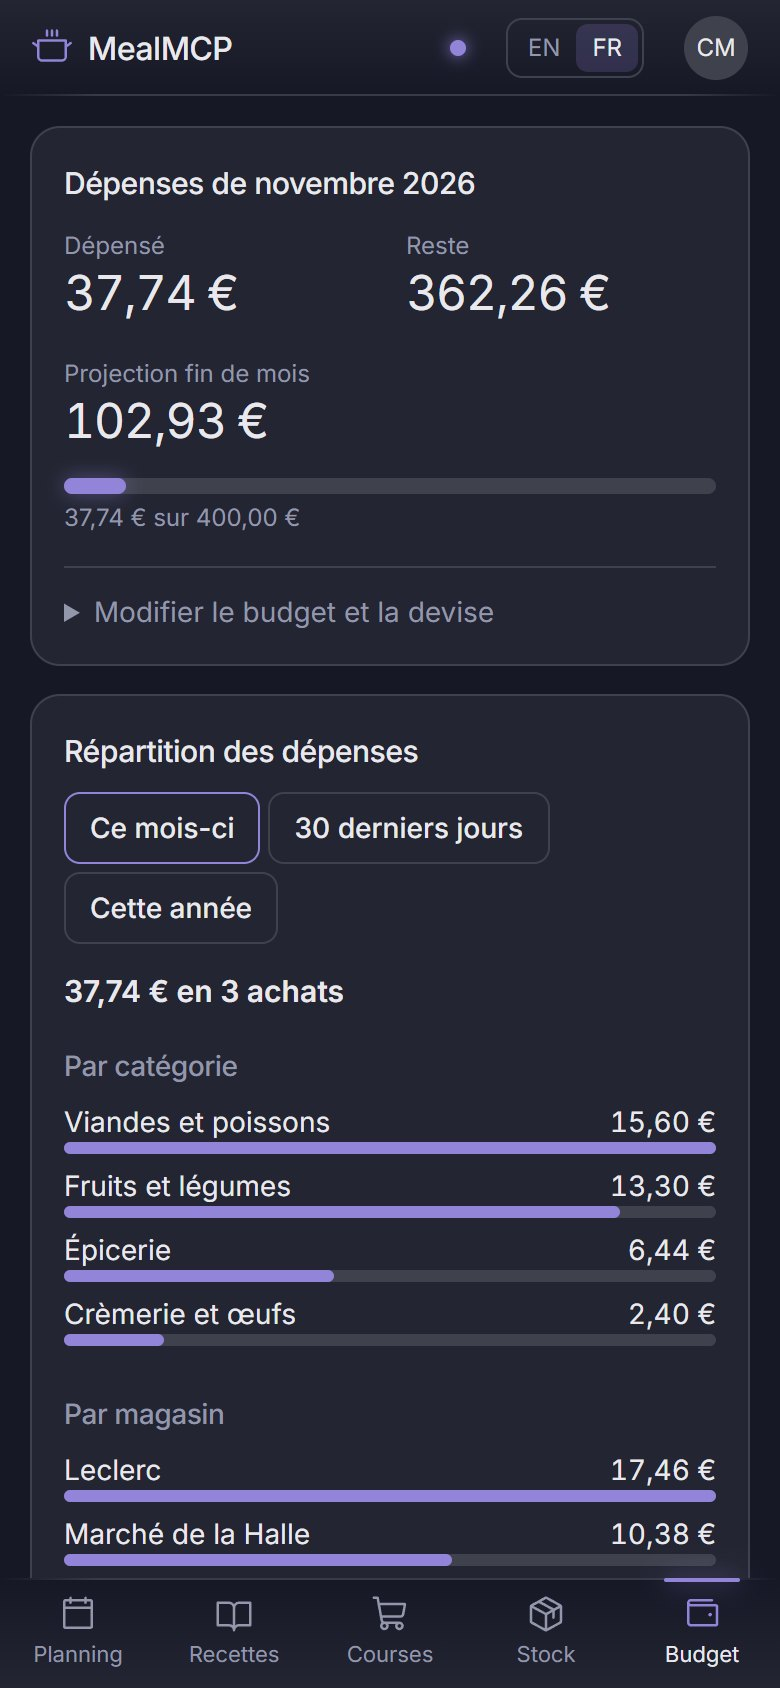
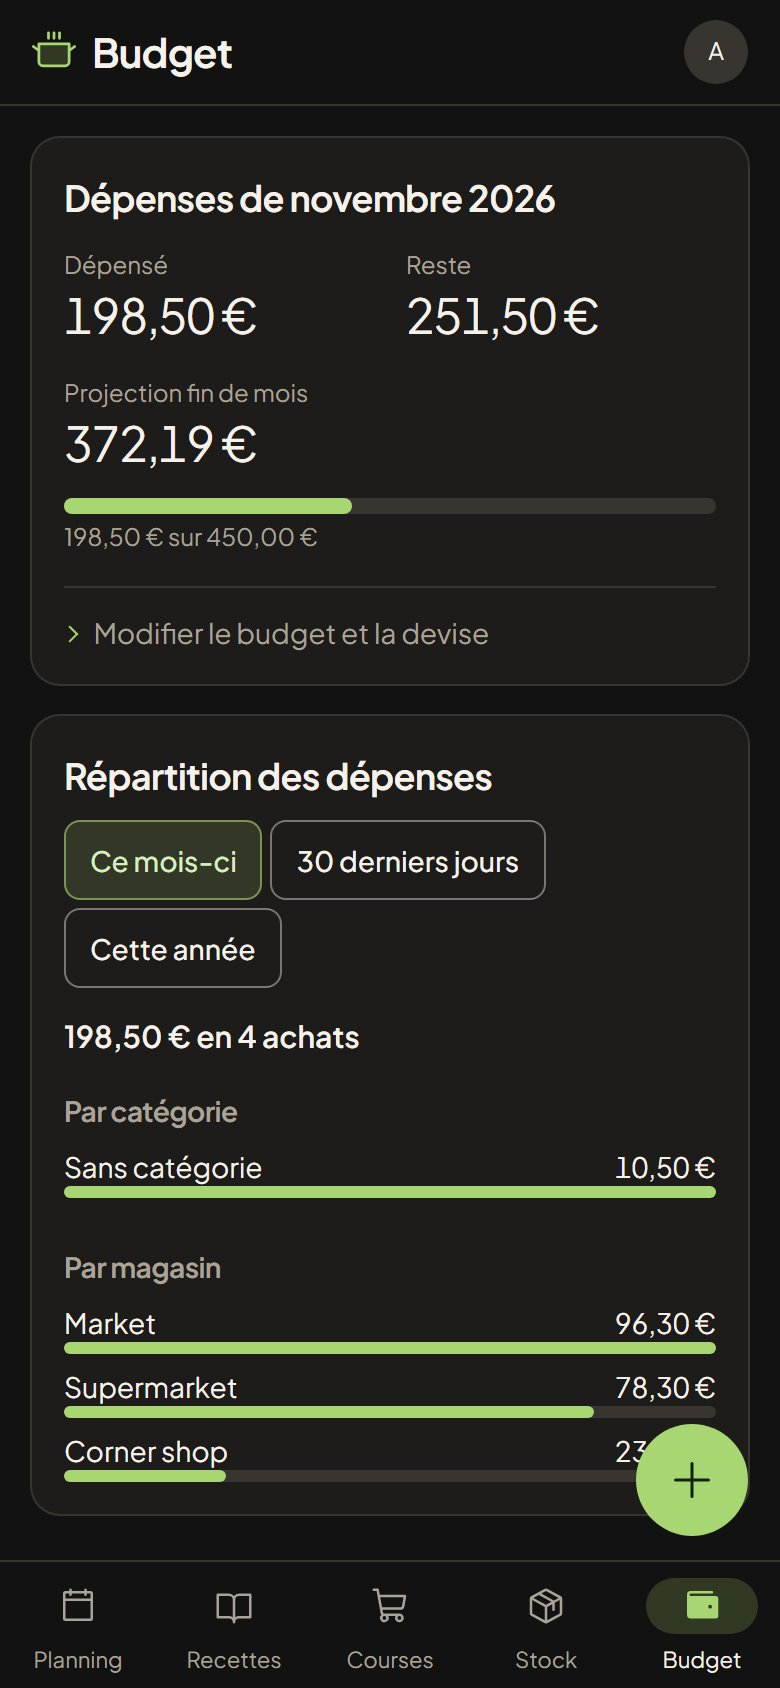
Refresh README, site and screenshots for partial freezing and price follow-up
Copy mentions freezing part of a pack and the pricey flag on shopping lines.
Desktop and phone screenshots (stock, shopping, budget, planning, recipes; en and fr)
retaken on a demo household so they show prices paid, trends and the pricey badge.

diff --git a/docs/fr/index.html b/docs/fr/index.html
@@ -52,9 +52,9 @@
   <div class="grid">
       <div class="card"><div class="ico" aria-hidden="true">📅</div><h3>La semaine planifiée en quelques minutes</h3><p>Posez une recette ou une simple note sur chaque jour. Les créneaux vides ressortent : plus de « on verra ».</p></div>
       <div class="card"><div class="ico" aria-hidden="true">🛒</div><h3>Des courses qui se préparent seules</h3><p>Un clic transforme les repas de la semaine en liste : ce qu’il faut, moins ce qu’il y a déjà. Triez par rayon et cochez en faisant les courses.</p></div>
-      <div class="card"><div class="ico" aria-hidden="true">🧊</div><h3>Savoir ce qu’il y a dans le frigo</h3><p>Voyez ce qui expire en premier, distinguez DLC et DDM, congelez et décongelez avec la bonne horloge, soyez alerté pour les pots ouverts et cuisinez ce que vous avez avant d’en racheter.</p></div>
+      <div class="card"><div class="ico" aria-hidden="true">🧊</div><h3>Savoir ce qu’il y a dans le frigo</h3><p>Voyez ce qui expire en premier, distinguez DLC et DDM, congelez et décongelez (même une partie d’un paquet) avec la bonne horloge, soyez alerté pour les pots ouverts et cuisinez ce que vous avez avant d’en racheter.</p></div>
       <div class="card"><div class="ico" aria-hidden="true">📖</div><h3>Des recettes adaptées à votre cuisine</h3><p>Notez et mettez en favori, voyez ce que vous pouvez cuisiner ce soir, et soyez prévenu si une recette demande un appareil que vous n’avez pas.</p></div>
-      <div class="card"><div class="ico" aria-hidden="true">💶</div><h3>Un budget courses maîtrisé</h3><p>Enregistrez vos tickets, fixez un budget mensuel et voyez où vous allez finir avant la fin du mois. Chaque ticket construit un historique des prix par produit, avec la tendance et le magasin le moins cher. Dans la devise de votre choix.</p></div>
+      <div class="card"><div class="ico" aria-hidden="true">💶</div><h3>Un budget courses maîtrisé</h3><p>Enregistrez vos tickets, fixez un budget mensuel et voyez où vous allez finir avant la fin du mois. Chaque ticket construit un historique des prix par produit, avec la tendance et le magasin le moins cher, et un article cher de votre liste est signalé. Dans la devise de votre choix.</p></div>
       <div class="card"><div class="ico" aria-hidden="true">🍎</div><h3>Calories et macros, seulement si vous voulez</h3><p>Activez la nutrition pour voir calories, protéines, glucides et lipides de chaque recette. Les valeurs viennent d’Open Food Facts ou de vos chiffres, et l’appli signale l’ingrédient manquant. Désactivé par défaut.</p></div>
       <div class="card"><div class="ico" aria-hidden="true">🥕</div><h3>Manger de saison</h3><p>Un calendrier des fruits et légumes de votre pays. Les articles hors saison de la liste viennent avec des alternatives de saison.</p></div>
       <div class="card"><div class="ico" aria-hidden="true">🥗</div><h3>Régimes et allergies pris en compte</h3><p>Végétarien, sans gluten, les 14 allergènes de l’UE, ce que quelqu’un n’aime pas : les recettes qui ne conviennent pas sont signalées et jamais suggérées.</p></div>

diff --git a/docs/index.html b/docs/index.html
@@ -52,9 +52,9 @@
   <div class="grid">
       <div class="card"><div class="ico" aria-hidden="true">📅</div><h3>Plan the week in minutes</h3><p>Drop a recipe or a quick note on each day. Empty slots stand out, so nothing is left to “we will see”.</p></div>
       <div class="card"><div class="ico" aria-hidden="true">🛒</div><h3>Shopping lists that write themselves</h3><p>One tap turns the week’s meals into a list: what you need, minus what is already at home. Sort it by aisle and tick as you walk the shop.</p></div>
-      <div class="card"><div class="ico" aria-hidden="true">🧊</div><h3>Know what is in the fridge</h3><p>See what expires first, tell use-by from best-before, freeze and thaw with the right clock, get an alert on opened jars, and cook what you already own before buying more.</p></div>
+      <div class="card"><div class="ico" aria-hidden="true">🧊</div><h3>Know what is in the fridge</h3><p>See what expires first, tell use-by from best-before, freeze and thaw (even part of a pack) with the right clock, get an alert on opened jars, and cook what you already own before buying more.</p></div>
       <div class="card"><div class="ico" aria-hidden="true">📖</div><h3>Recipes that fit your kitchen</h3><p>Rate and favorite recipes, see which ones you can make tonight, and get a warning when one needs an appliance you do not have.</p></div>
-      <div class="card"><div class="ico" aria-hidden="true">💶</div><h3>Grocery budget under control</h3><p>Log receipts, set a monthly budget and see where you will land before the month ends. Every receipt builds a price history per product, with the trend and the cheapest shop. In any currency.</p></div>
+      <div class="card"><div class="ico" aria-hidden="true">💶</div><h3>Grocery budget under control</h3><p>Log receipts, set a monthly budget and see where you will land before the month ends. Every receipt builds a price history per product, with the trend and the cheapest shop, and a pricey item on your list is flagged. In any currency.</p></div>
       <div class="card"><div class="ico" aria-hidden="true">🍎</div><h3>Calories and macros, only if you want them</h3><p>Turn on nutrition to see calories, protein, carbs and fat for every recipe. Values come from Open Food Facts or your own numbers, and the app tells you when an ingredient is missing. Off by default.</p></div>
       <div class="card"><div class="ico" aria-hidden="true">🥕</div><h3>Eat in season</h3><p>A fruit and vegetable calendar for your country. Out-of-season items on your list come with in-season alternatives.</p></div>
       <div class="card"><div class="ico" aria-hidden="true">🥗</div><h3>Diets and allergies, handled</h3><p>Vegetarian, gluten-free, the 14 EU allergens, foods someone dislikes: unsuitable recipes are flagged and never suggested.</p></div>

diff --git a/README.fr.md b/README.fr.md
@@ -8,9 +8,9 @@ Décidez quoi manger, n'achetez que le nécessaire, utilisez ce qu'il y a déjà
 
 - **La semaine planifiée en quelques minutes** : posez une recette ou une simple note sur chaque jour. Dites qui mange et quand : les créneaux vides ressortent.
 - **Des courses qui se préparent seules** : les repas de la semaine deviennent une liste (ce qu'il faut, moins ce qu'il y a à la maison, plus ce qui commence à manquer). Affichage par rayon ou par repas, et rangement des achats en un geste.
-- **Savoir ce qu'il y a dans le frigo** : frigo, congélateur et placard avec dates de péremption, alertes sur les pots ouverts, DLC et DDM, congélation et décongélation (l’horloge change avec), une note, une marque et un code-barres par ligne, conditionnements « 3 × 200 ml », poids égouttés pour les haricots et le thon, conversions par produit (1 patate douce = 300 g). Des recettes sont suggérées pour finir ce qui expire en premier.
+- **Savoir ce qu'il y a dans le frigo** : frigo, congélateur et placard avec dates de péremption, alertes sur les pots ouverts, DLC et DDM, congélation et décongélation, même d'une partie d'un paquet (l’horloge change avec), une note, une marque et un code-barres par ligne, conditionnements « 3 × 200 ml », poids égouttés pour les haricots et le thon, conversions par produit (1 patate douce = 300 g). Des recettes sont suggérées pour finir ce qui expire en premier.
 - **Des recettes adaptées à votre cuisine** : ingrédients (les produits de base et les ingrédients « à votre goût » ne sont jamais achetés), étapes avec appareil et température, étiquettes, notes de 1 à 5 étoiles et favoris. Voyez ce que vous pouvez cuisiner tout de suite, et ce qui demande un appareil que vous n'avez pas.
-- **Un budget courses maîtrisé** : enregistrez vos achats (à la main, depuis un ticket via une IA, ou en terminant les courses), fixez un budget mensuel avec projection, suivez les dépenses par catégorie, magasin et mois, et estimez le coût des recettes, de la semaine et de la liste d'après ce que vous avez réellement payé. Chaque ticket alimente un historique des prix par produit (au kilo, au litre ou à la pièce, tendance, magasin le moins cher), et chaque ligne de stock retient ce que vous avez payé. Dans la devise de votre choix.
+- **Un budget courses maîtrisé** : enregistrez vos achats (à la main, depuis un ticket via une IA, ou en terminant les courses), fixez un budget mensuel avec projection, suivez les dépenses par catégorie, magasin et mois, et estimez le coût des recettes, de la semaine et de la liste d'après ce que vous avez réellement payé. Chaque ticket alimente un historique des prix par produit (au kilo, au litre ou à la pièce, tendance, magasin le moins cher), les lignes de courses sont signalées quand un prix dépasse nettement l'habituel, et chaque ligne de stock retient ce que vous avez payé. Dans la devise de votre choix.
 - **Calories et macros, seulement si vous voulez** (désactivé par défaut) : activez-le dans les réglages du foyer pour voir calories, protéines, glucides et lipides de chaque recette. Les valeurs viennent d'[Open Food Facts](https://fr.openfoodfacts.org) quand vous cherchez un produit (seul le nom ou le code-barres est envoyé ; données sous licence ODbL) ou de vos propres chiffres, et les totaux indiquent quels ingrédients n'en avaient pas.
 - **Manger de saison** : un calendrier hors ligne des fruits, légumes et herbes selon votre pays (FR, BE, CH, GB, CA, US, hémisphère sud pris en charge). Les articles hors saison de la liste viennent avec des alternatives de saison.
 - **Régimes et allergies pris en compte** : végétarien, sans gluten, les 14 allergènes de l'UE, ce que quelqu'un n'aime pas. Les recettes qui ne conviennent pas sont signalées et jamais suggérées (détection par nom d'ingrédient : un garde-fou, vérifiez les étiquettes).

diff --git a/README.md b/README.md
@@ -8,9 +8,9 @@ Decide what to eat, buy only what you need, use what is already in the fridge an
 
 - **Plan the week in minutes**: put a recipe or a quick note on each day. Say who eats and when, and empty slots stand out.
 - **Shopping lists that write themselves**: the week's meals become a list (what you need, minus what is at home, plus what is running low). View it by aisle, or by the meal each item is for, and put the purchases away in one go.
-- **Know what is in the fridge**: fridge, freezer and pantry with expiry dates, alerts on opened jars, use-by and best-before dates, freezing and thawing (the clock changes with them), a note, brand and barcode per line, packs kept as `3 × 200 ml`, drained weights for beans and tuna, and per-product conversions (1 sweet potato = 300 g). It suggests recipes that use up what expires first.
+- **Know what is in the fridge**: fridge, freezer and pantry with expiry dates, alerts on opened jars, use-by and best-before dates, freezing and thawing, even just part of a pack (the clock changes with them), a note, brand and barcode per line, packs kept as `3 × 200 ml`, drained weights for beans and tuna, and per-product conversions (1 sweet potato = 300 g). It suggests recipes that use up what expires first.
 - **Recipes that fit your kitchen**: ingredients (staples and "to taste" items are never bought), steps with appliance and temperature, tags, 1–5 star ratings and favorites. See which ones you can cook right now, and which need an appliance you do not own.
-- **Grocery budget under control**: log purchases (by hand, from a receipt via an AI, or when you finish shopping), set a monthly budget with a projection, see spending by category, shop and month, and get cost estimates for recipes, the week and the list from what you really paid. Every receipt feeds a price history per product (per kg, litre or piece, trend, cheapest shop), and each stock line remembers what you paid for it. Any currency.
+- **Grocery budget under control**: log purchases (by hand, from a receipt via an AI, or when you finish shopping), set a monthly budget with a projection, see spending by category, shop and month, and get cost estimates for recipes, the week and the list from what you really paid. Every receipt feeds a price history per product (per kg, litre or piece, trend, cheapest shop), shopping lines are flagged when a price is well above the usual one, and each stock line remembers what you paid for it. Any currency.
 - **Calories and macros, only if you want them** (off by default): turn it on in the household settings to see calories, protein, carbs and fat for every recipe. Values come from [Open Food Facts](https://world.openfoodfacts.org) when you look a product up (only the product name or barcode is sent; data under ODbL) or from numbers you type, and the totals tell you which ingredients had none.
 - **Eat in season**: a bundled offline calendar of fruit, vegetables and herbs for your country (FR, BE, CH, GB, CA, US, southern hemisphere supported). Out-of-season items on your list come with in-season alternatives.
 - **Diets and allergies, handled**: vegetarian, gluten-free, the 14 EU allergens, foods someone dislikes. Recipes that do not fit are flagged and never suggested (matching is by ingredient name: a safety net, check labels).
